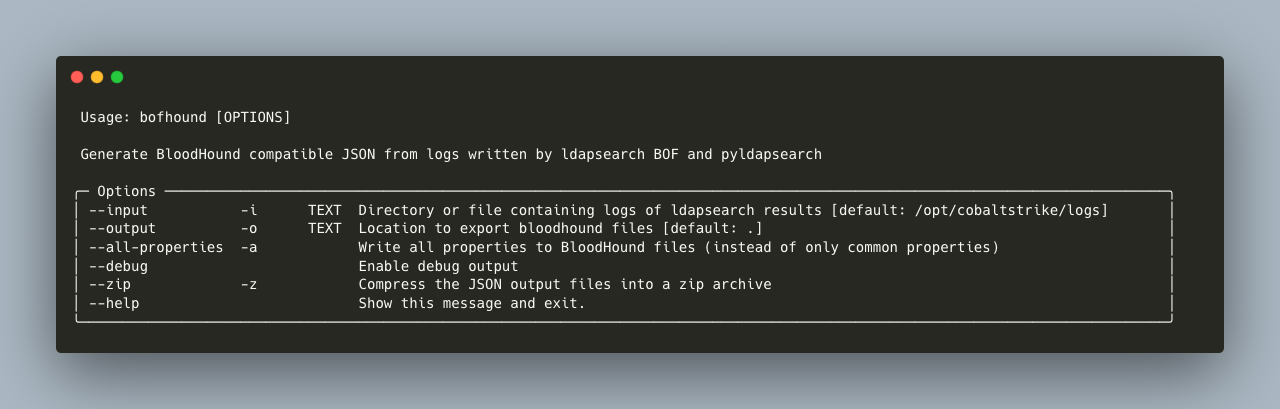
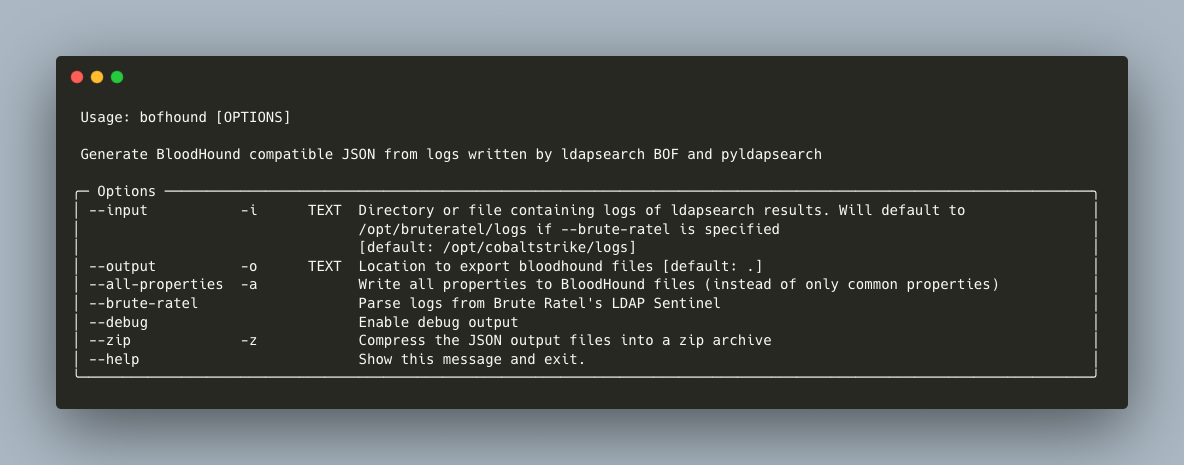
update readme

Changed region(s): [[0.0312, 0.1174, 0.9688, 0.8802]]

diff --git a/README.md b/README.md
@@ -11,7 +11,7 @@
 
 # BOFHound
 
-BOFHound is an offline BloodHound ingestor and LDAP result parser compatible with TrustedSec's [ldapsearch BOF](https://github.com/trustedsec/CS-Situational-Awareness-BOF) and the Python adaptation, [pyldapsearch](https://github.com/fortalice/pyldapsearch).
+BOFHound is an offline BloodHound ingestor and LDAP result parser compatible with TrustedSec's [ldapsearch BOF](https://github.com/trustedsec/CS-Situational-Awareness-BOF), the Python adaptation, [pyldapsearch](https://github.com/fortalice/pyldapsearch) and Brute Ratel's [LDAP Sentinel](https://bruteratel.com/tabs/commander/badgers/#ldapsentinel).
 
 By parsing log files generated by the aforementioned tools, BOFHound allows operators to utilize BloodHound's beloved interface while maintaining full control over the LDAP queries being run and the spped at which they are executed. This leaves room for operator discretion to account for potential honeypot accounts, expensive LDAP query thresholds and other detection mechanisms designed with the traditional, automated BloodHound collectors in mind.
 
@@ -35,6 +35,11 @@ bofhound -o /data/
 Parse pyldapsearch logs and only include all properties (vs only common properties)
 ```
 bofhound -i ~/.pyldapsearch/logs/ --all-properties
+```
+
+Parse LDAP Sentinel data from BRc4 logs (will change default input path to `/opt/bruteratel/logs`)
+```
+bofhound --brute-ratel
 ```
 
 # ldapsearch
